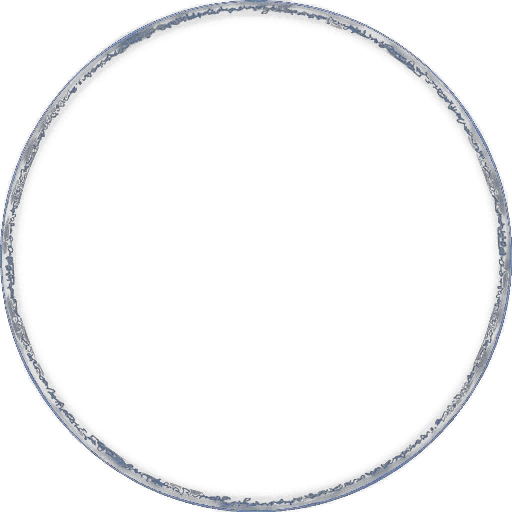
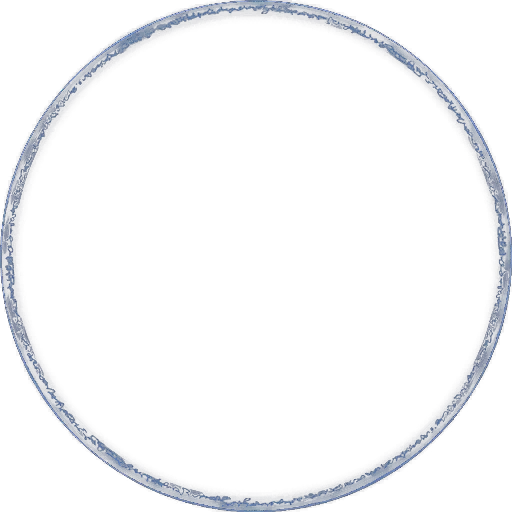
Passive tree, measured on a video of the game: a jewel's radius ring is as bright as there (the game adds the ring's colour as it is and dims only what is behind it: its band was half as bright here), it turns at the game's 0.021 radians a second each way, and the runes behind Undying Hate's socket 

diff --git a/app.js b/app.js
@@ -795,10 +795,8 @@ const LINK = {
 };
 // the passives a timeless jewel conquers have that jewel's own links and frames when its tree version has them
 // (AlternateTreeArt.UIArt: Undying Hate's Abyss; images.py: img/tree/alt<version>_*): the links, read the same way off
-// AbyssPassiveSkillScreenCurves*Together.dds; art: what the game draws behind the socket the jewel is in
-// (AlternateTreeArt.KeystoneFrameArt, a PassiveSkillTreeMasteryArt row: images.py, img/mastery)
+// AbyssPassiveSkillScreenCurves*Together.dds
 const LINK_ALT = { 7: {
-  art: 'AlternateTreeAbyss',
   normal: [['#419236', 11], ['#040e04', 7], ['#0d200a', 3]],
   can: [['#bacd70', 13], ['#94d259', 9], ['#386600', 7, 1], ['#88d242', 5], ['#a0d271', 3]],
   active: [['rgba(124,168,3,.37)', 34], ['rgba(124,168,3,.73)', 20], ['#d4ff6b', 11], ['#4c4e12', 7, 1], ['#b1c367', 5, 1], ['#ecfea8', 3], ['#ffffe9', 1]],
@@ -946,13 +944,15 @@ function drawTree() {
     ctx.drawImage(pic, x - w / 2, y - h / 2, w, h);
   }
   ctx.globalAlpha = 1;
-  // behind the socket of a timeless jewel whose tree has art for it, that art (Undying Hate: the runes of the Abyss)
-  // note: its size (2.75 world units a pixel of the half-size picture) and how bright (1.7 times the picture: once
-  // more, added at 0.7) are measured on a screenshot of the game; no table says them
+  // behind the socket of a unique jewel that has art for it, that art (passive_tree.json socket_art,
+  // PassiveJewelUniqueArt.KeystoneArt: the runes of the Abyss behind Undying Hate), as large as a mastery's; it does
+  // not turn (a video of the game)
+  // note: how bright (1.7 times the picture: once more, added at 0.7) is measured on a screenshot of the game; no
+  // table says it
   for (const j of js) {
-    const name = j.R && LINK_ALT[statsOf(j.it).local_unique_jewel_alternate_tree_version]?.art, pic = name && art('mastery/' + name);
+    const name = tree.socket_art[j.it.unique], pic = name && art('mastery/' + name.split('/').pop());
     if (!pic) continue;
-    const [x, y] = WP[j.id], w = pic.width * 2.75, h = pic.height * 2.75;
+    const [x, y] = WP[j.id], w = pic.width * 2, h = pic.height * 2;
     ctx.drawImage(pic, x - w / 2, y - h / 2, w, h);
     ctx.globalCompositeOperation = 'lighter'; ctx.globalAlpha = .7;
     ctx.drawImage(pic, x - w / 2, y - h / 2, w, h);
@@ -1049,7 +1049,8 @@ function drawRings(g, j, x, y, k, turn) {
   }
 }
 // the rings of the tree turn all the time: they have a canvas of their own over it, so the tree is not drawn again
-// note: no table says how fast they turn: as fast as in Path of Building 2 (0.7 * 0.00003 radians a millisecond)
+// note: no table says how fast they turn: 0.021 radians a second each way, measured on a video of the game (the
+// angle its band moved after 1.5 and 3 seconds), which is Path of Building 2's 0.7 * 0.00003 radians a millisecond
 const RING_TURN = .021, rcv = $('treeRings'), rctx = rcv.getContext('2d');   // radians a second
 let rings = [], ringRaf = 0;   // what drawTree last had in view: [jewel, x, y, pixels a tree unit]
 function turnRings(now) {

diff --git a/poe2_data/_tool/images.py b/poe2_data/_tool/images.py
@@ -60,6 +60,7 @@ BADGES, BADGE_R = {'fire': (102, 539), 'cold': (670, 537), 'lightning': (102, 65
 # the art behind a group of the tree, by its mastery (PassiveSkillTreeMasteryArt.ActiveEffectImage), saved whole at
 # half size as ../available/img/mastery/<id>.webp
 MASTERY = {r['Id']: r['ActiveEffectImage'] for r in table('PassiveSkillTreeMasteryArt') if r['ActiveEffectImage']}
+MASTERY.update({pic.split('/')[-1]: pic for pic in tree['socket_art'].values()})   # and the art behind a unique jewel's socket, the same way
 ui = set(TREE.values()) | set(MASTERY.values())
 atlas = {}
 if ui:
@@ -91,6 +92,13 @@ for p in paths:
         im.resize((im.width // 2, im.height // 2), Image.LANCZOS).save(out, 'WEBP', quality=85)
     except Exception as e:
         bad.append((p, str(e)))
+# The game lays a radius ring over the tree with its colour as it is, dimming only what is behind it by its alpha
+# (measured on a video of the game: the ring's brightness across its band, within a few percent of that and twice
+# what dimming the colour by the alpha too gives). A page dims the colour as well, so the ring is saved with its
+# colour divided by its alpha, and no less alpha than its brightest channel where it is brighter than its alpha allows
+def lit(im):
+    r, g, b, a = im.convert('RGBA').split()
+    return Image.merge('RGBa', (r, g, b, ImageChops.lighter(a, ImageChops.lighter(r, ImageChops.lighter(g, b))))).convert('RGBA')
 for folder, role, name in [('tree', *x) for x in TREE.items()] + [('mastery', *x) for x in MASTERY.items()]:   # each is a picture of its own: full size (the tree's are drawn large when zoomed in; the masteries at half)
     out = os.path.join(ROOT, 'available', 'img', folder, role + '.webp')
     try:
@@ -98,6 +106,7 @@ for folder, role, name in [('tree', *x) for x in TREE.items()] + [('mastery', *x
         file, (x1, y1, x2, y2) = atlas[name.lower()]
         im = Image.open(os.path.join(ROOT, 'files', file))
         if folder == 'tree': im = im.crop((x1, y1, x2 + 1, y2 + 1))
+        if role.startswith('ring'): im = lit(im)
         (im.resize((im.width // 2, im.height // 2), Image.LANCZOS) if folder == 'mastery' else im).save(out, 'WEBP', quality=90)
     except Exception as e:
         bad.append((role, str(e)))

diff --git a/poe2_data/_tool/available.py b/poe2_data/_tool/available.py
@@ -296,7 +296,8 @@ for r in load('AlternateTreeExtraPassiveOverridesFromJewelStats'):
 words = load('Words')
 socketed = {**{bases[r['BaseItemTypesKey']]['Name']: r['SocketedImage'] for r in load('PassiveJewelArt')},
             **{words[r['Name']]['Text']: r['JewelArt'] for r in load('PassiveJewelUniqueArt')}}
-save('passive_tree.json', {'class_roots': roots, 'socketed': socketed, 'attribute_options': attr_opts, 'attribute_icons': attr_icons, 'groups': centres, 'orbit_radii': radii, 'nodes': {str(k): v for k, v in nodes.items()},
+socket_art = {words[r['Name']]['Text']: r['KeystoneArt'] for r in load('PassiveJewelUniqueArt') if r['KeystoneArt']}   # and the art behind that socket
+save('passive_tree.json', {'class_roots': roots, 'socketed': socketed, 'socket_art': socket_art, 'attribute_options': attr_opts, 'attribute_icons': attr_icons, 'groups': centres, 'orbit_radii': radii, 'nodes': {str(k): v for k, v in nodes.items()},
                            'timeless': {'versions': alt_versions, 'keystones': conquerors, 'overrides': alt_over},
                            # Flesh Crucible's keystone (local_vivisection_random_keystone_index, from 1): PassiveKeystoneList's rows
                            'keystone_list': [str(passives[k['Passive']]['PassiveSkillGraphId']) for k in load('PassiveKeystoneList')]})
